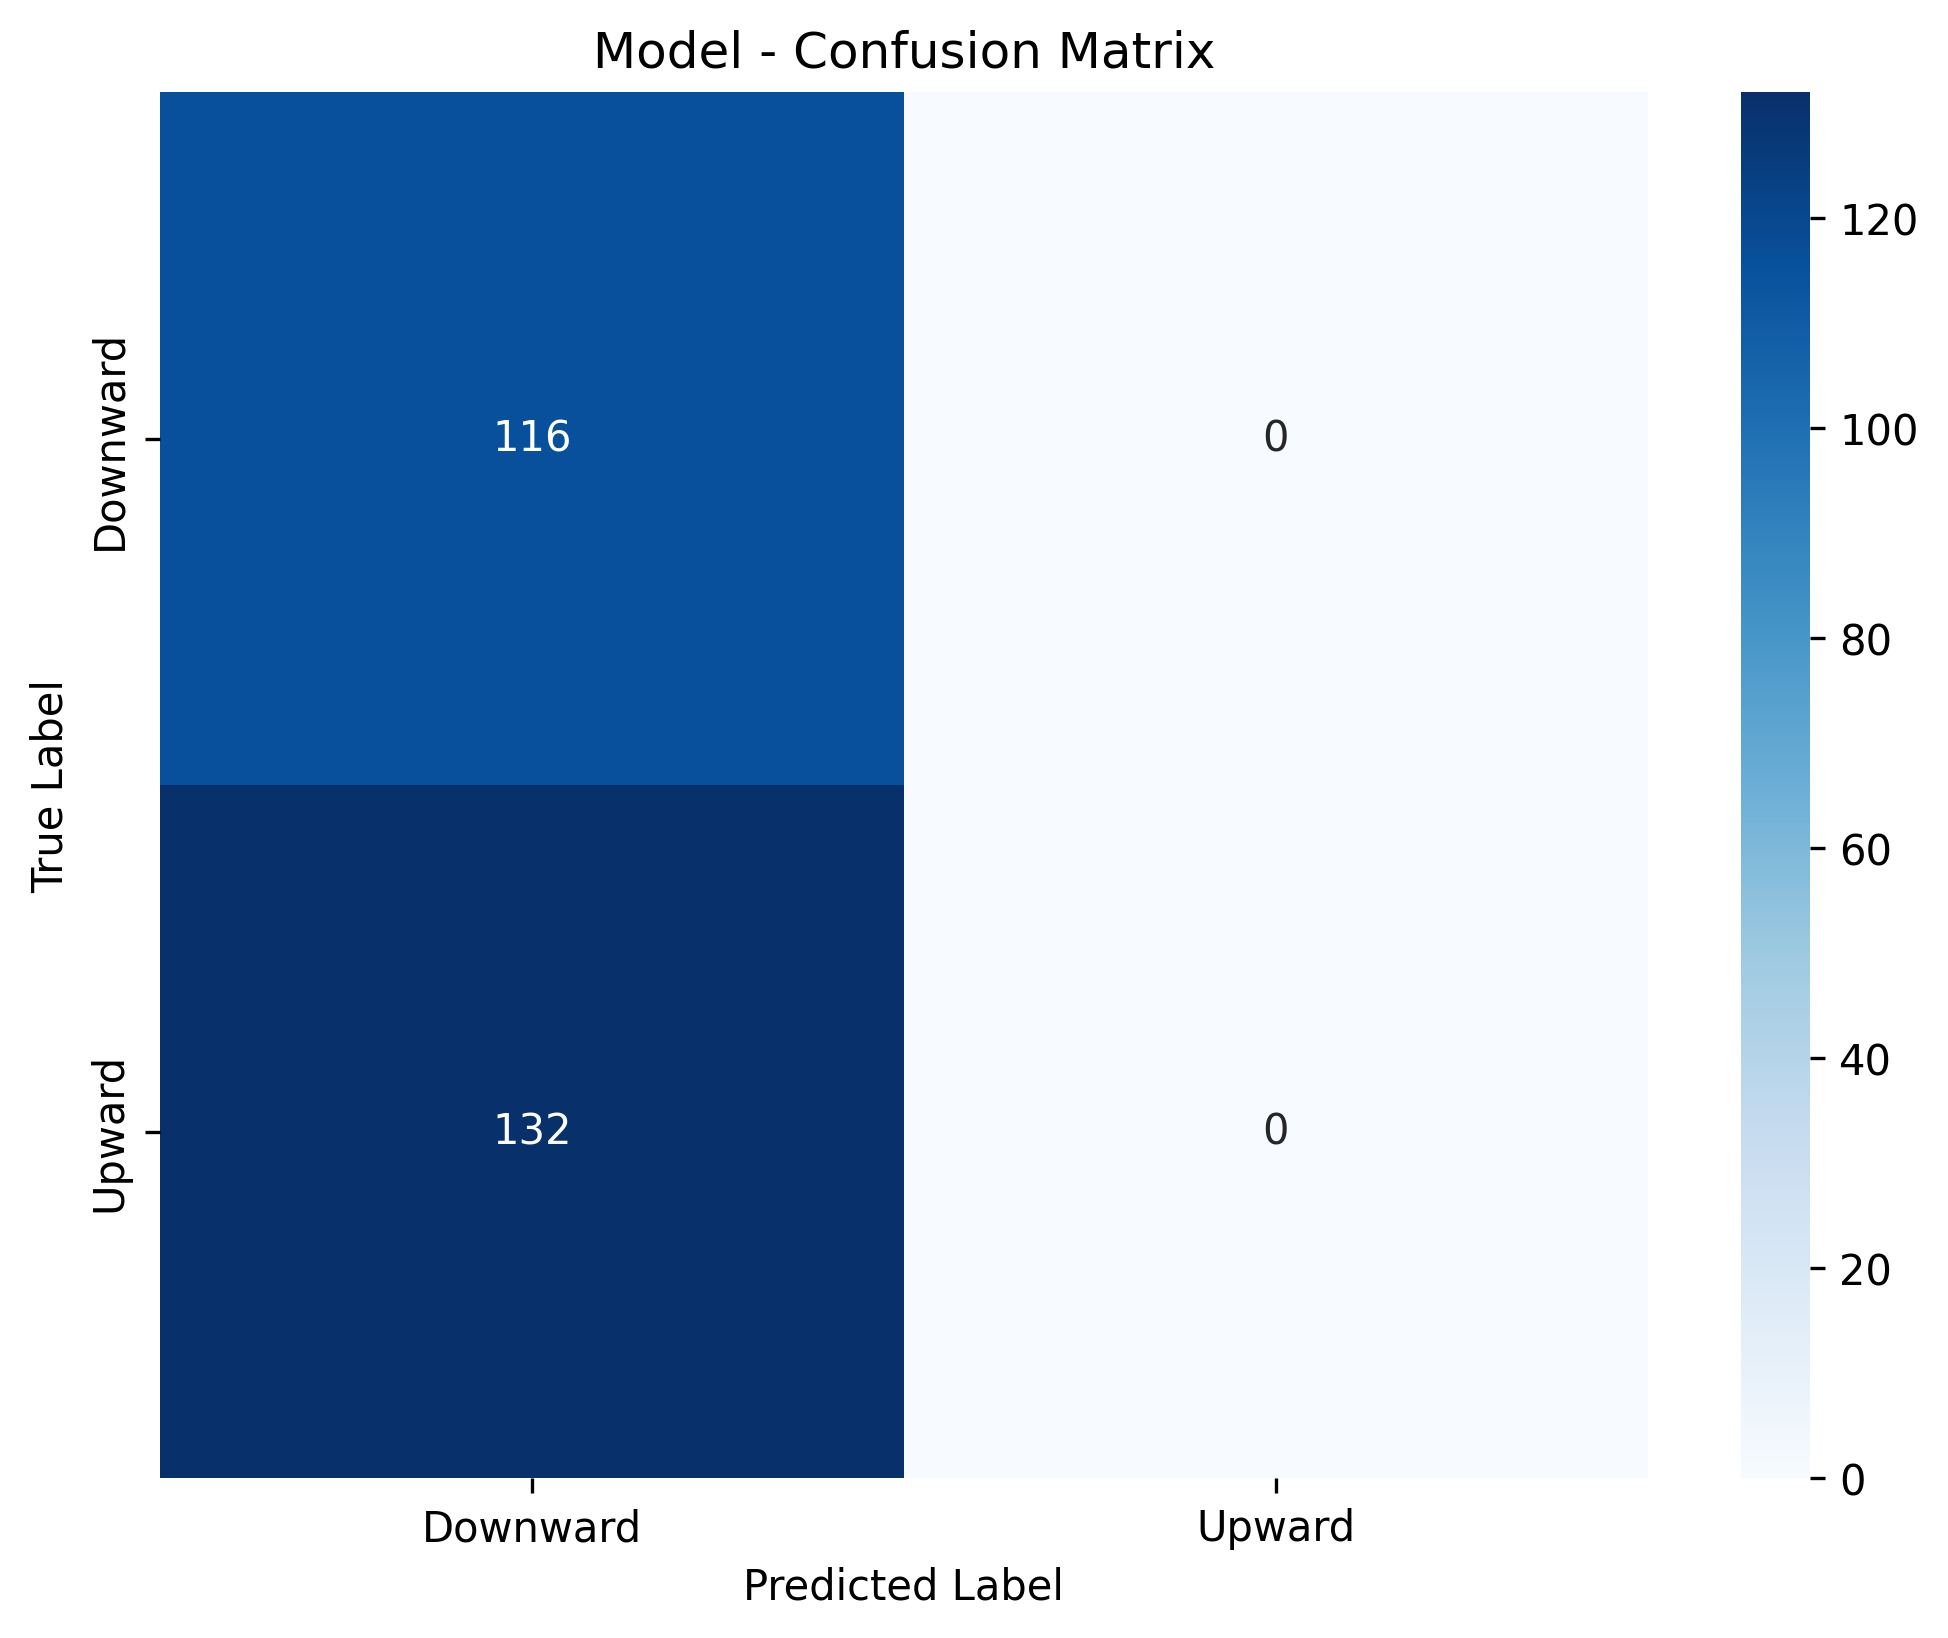
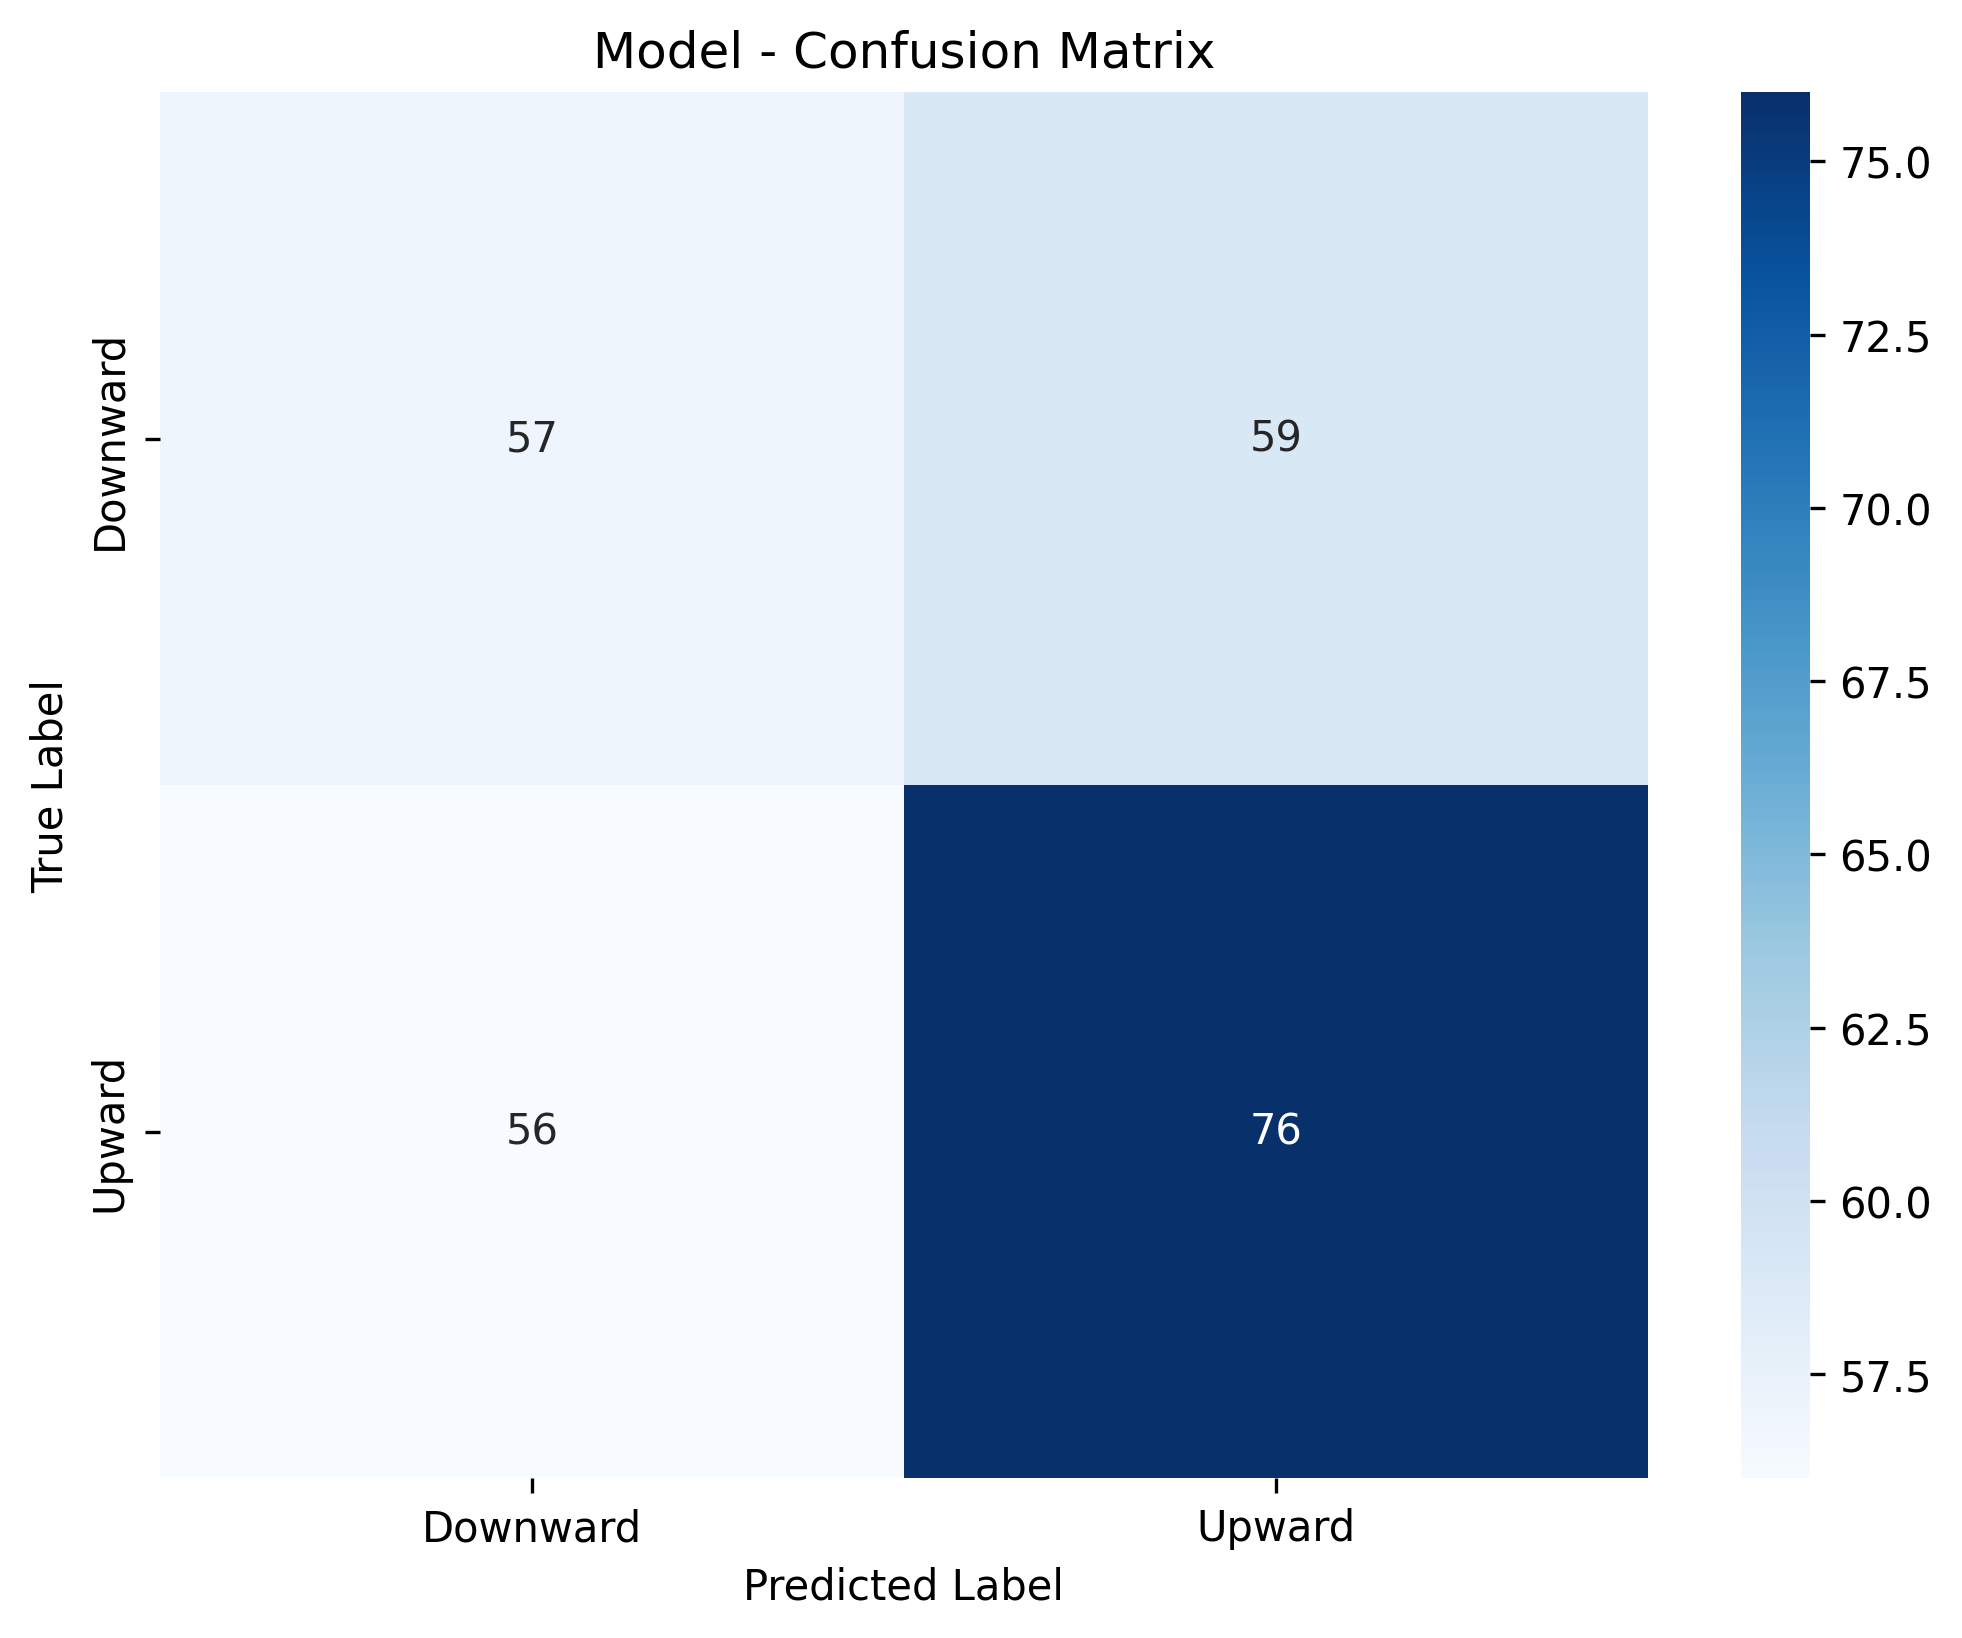
Complete model accuracy investigation - confirmed user's issue, implemented config fixes

diff --git a/streamlit_app.py b/streamlit_app.py
@@ -210,15 +210,15 @@ def main():
     if use_paper_params:
         # Paper-compliant parameters (improved for better performance)
         model_config = {
-            'hidden_size': 128,    # Increased from 64 for better capacity
+            'hidden_size': 64,     # Restored to original size but with better training
             'num_layers': 1,
-            'dropout': 0.2,        # Increased from 0.1 for better regularization
+            'dropout': 0.2,        # Slightly higher dropout for better generalization
             'activation': 'tanh',
-            'learning_rate': 1e-3,
+            'learning_rate': 5e-4, # Reduced learning rate for stability
             'batch_size': 32,
             'window_length': 20,
-            'epochs': 150,         # Increased from 100 for more thorough training
-            'optimizer': 'adamax'
+            'epochs': 200,         # More epochs for better convergence
+            'optimizer': 'adam'    # Switch to Adam for better convergence
         }
         st.sidebar.info("Using paper-compliant PLSTM-TAL parameters")
     else:
@@ -457,7 +457,7 @@ def train_model(stock_data, symbol, model_config, use_bayesian, use_quick_mode, 
             
             plstm_trainer = ModelTrainer(plstm_model)
             # Use more epochs for better accuracy as requested
-            training_epochs = model_config['epochs'] * 2 if not use_quick_mode else model_config['epochs']
+            training_epochs = model_config['epochs']
             
             plstm_history = plstm_trainer.train(
                 X_train, y_train, X_val, y_val,
@@ -465,7 +465,7 @@ def train_model(stock_data, symbol, model_config, use_bayesian, use_quick_mode, 
                 batch_size=model_config['batch_size'],
                 learning_rate=model_config['learning_rate'],
                 optimizer_name=model_config['optimizer'],
-                early_stopping_patience=50  # Increased patience for better convergence
+                early_stopping_patience=100  # Much higher patience for better convergence
             )
             
             # Step 6: Model evaluation
